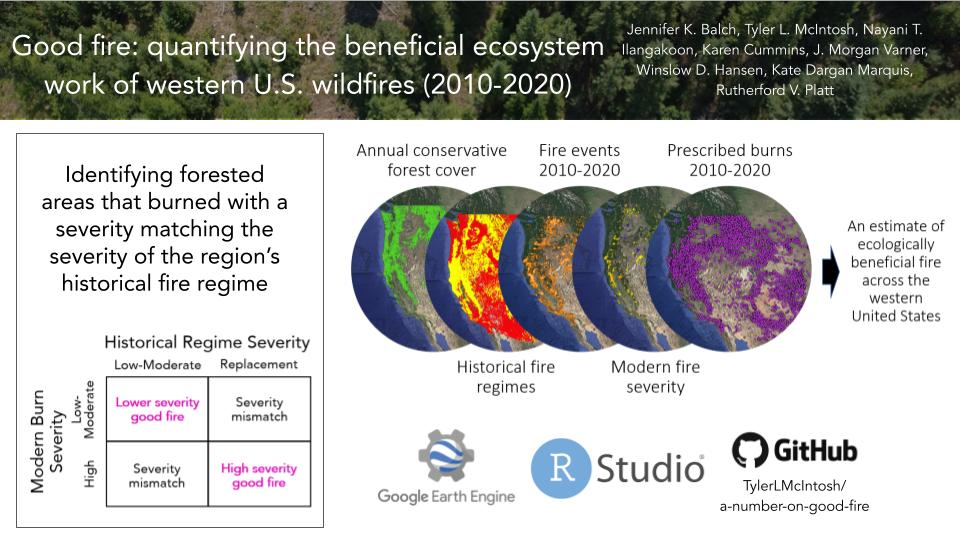
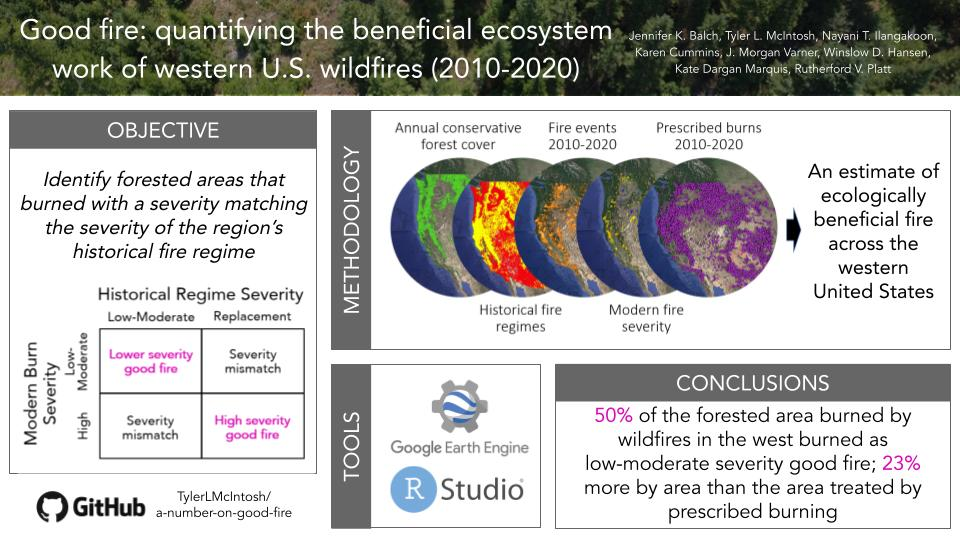
new graphical abstract

diff --git a/README.md b/README.md
@@ -1,3 +1,4 @@
+[![Project Status: WIP – Initial development is in progress, but there has not yet been a stable, usable release suitable for the public.](https://www.repostatus.org/badges/latest/wip.svg)](https://www.repostatus.org/#wip) [![license](https://img.shields.io/badge/license-GPLv3-blue.svg)](https://opensource.org/licenses/GPL-3.0) [![DOI](https://zenodo.org/badge/DOI/10.5281/zenodo.4648947.svg)](https://doi.org/10.5281/zenodo.4648947)
 ![graphical abstract showing data layers integrated and software used in workflow](/images/gf_overview.jpg)
 
 # Good fire in western U.S. forests: estimating the beneficial ecosystem work of wildfires
